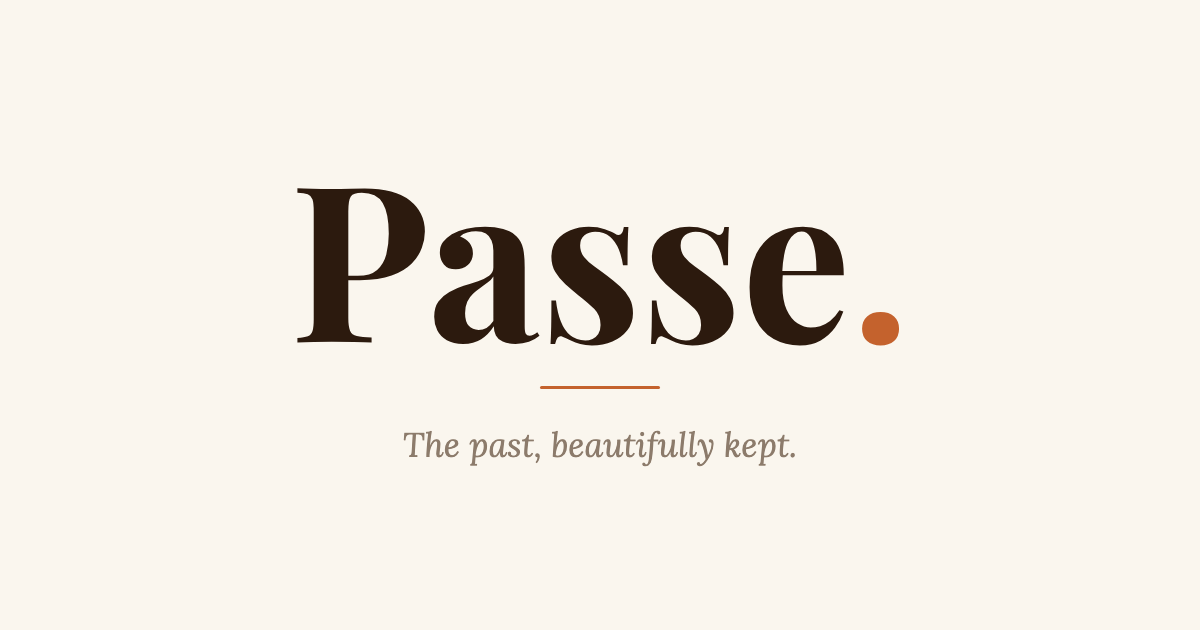
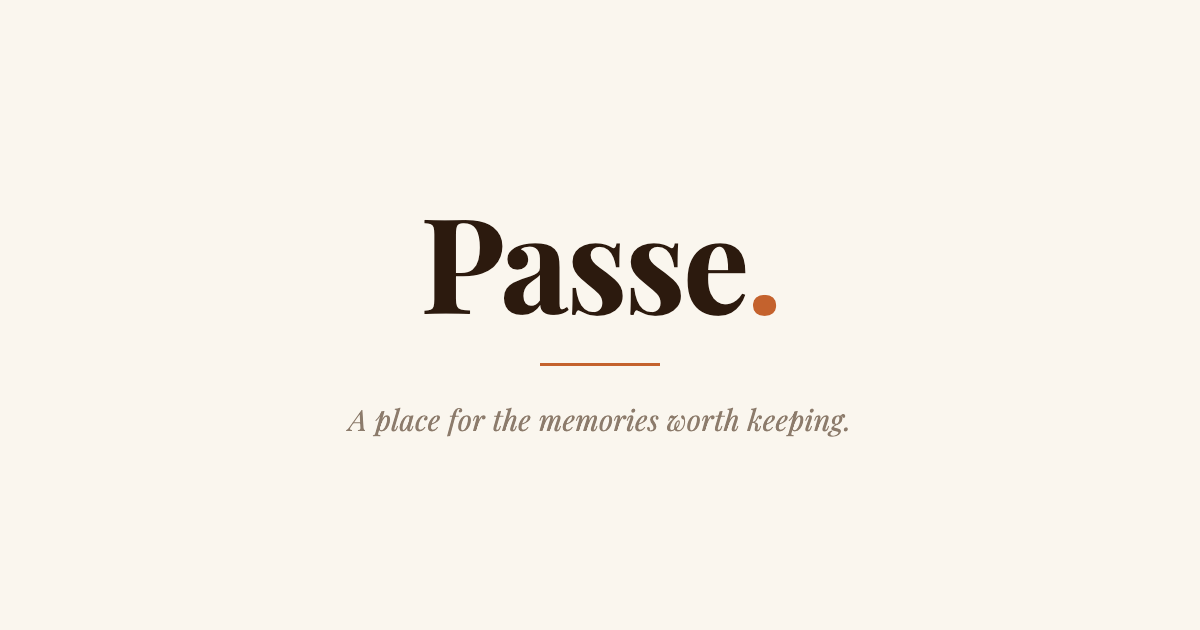
chore: revised app tagline to new one

Changed region(s): [[0.2467, 0.3016, 0.7708, 0.573], [0.2775, 0.6333, 0.7092, 0.7238], [0.4625, 0.573, 0.555, 0.6333]]

diff --git a/apps/web/e2e/public.spec.ts b/apps/web/e2e/public.spec.ts
@@ -4,7 +4,7 @@ test.describe('landing page', () => {
   test('renders hero, features, and pricing sections', async ({ page }) => {
     await page.goto('/en')
 
-    await expect(page.getByRole('heading', { name: /The past,/ })).toBeVisible()
+    await expect(page.getByRole('heading', { name: /A place for the memories/ })).toBeVisible()
     // "Start for free" appears in the hero, the pricing card, and the final CTA — any one of
     // them proves the page rendered.
     await expect(page.getByRole('link', { name: 'Start for free' }).first()).toBeVisible()

diff --git a/apps/web/src/lib/pdf/zine/ZinePanels.tsx b/apps/web/src/lib/pdf/zine/ZinePanels.tsx
@@ -170,7 +170,7 @@ export function ZineBackCoverPanel({ title, copyrightYear }: BackCoverPanelProps
       <View style={styles.backCoverMain}>
         <Text style={styles.backCoverTitle}>{title}</Text>
         <View style={styles.divider} />
-        <Text style={styles.tagline}>The past, beautifully kept.</Text>
+        <Text style={styles.tagline}>A place for the memories worth keeping.</Text>
       </View>
       <View style={styles.copyrightStrip}>
         <Text style={styles.copyrightText}>© {copyrightYear}</Text>

diff --git a/apps/web/src/features/trips/views/MemoryDetailView.tsx b/apps/web/src/features/trips/views/MemoryDetailView.tsx
@@ -58,7 +58,7 @@ export function MemoryDetailView({ tripId, memoryId }: Props) {
 
   return (
     <div className="grid min-h-[calc(100svh-4rem)] grid-cols-1 lg:grid-cols-[1.35fr_1fr]">
-      <div className="washed relative min-h-[420px] bg-dark-espresso-dark p-9">
+      <div className="washed relative min-h-[420px] bg-dark-espresso-dark p-5">
         {cover && (
           <div className="relative h-full w-full overflow-hidden rounded-[26px]">
             <Image

diff --git a/apps/web/app/layout.tsx b/apps/web/app/layout.tsx
@@ -22,7 +22,7 @@ const dmMono = DM_Mono({
 
 export const metadata: Metadata = {
   title: 'Passe.',
-  description: 'The past, beautifully kept.',
+  description: 'A place for the memories worth keeping.',
 }
 
 export default async function RootLayout({ children }: { children: ReactNode }) {

diff --git a/PRODUCT.md b/PRODUCT.md
@@ -1,6 +1,6 @@
 # Passe. — Product Identity
 
-> _The past, beautifully kept._
+> _A place for the memories worth keeping._
 
 A personal travel portfolio app for individual travellers. Users create **trips**, attach **memories** (photos, notes, GPS locations), and optionally share trips and memories publicly via a personal portfolio URL.
 
@@ -26,7 +26,7 @@ Every public-facing page should feel like a beautifully designed travel book, no
 
 **Name:** Passe. (always with the closing period, never the accented "Passé" or "PASSÉ")
 **Pronunciation:** pah-SAY
-**Tagline:** The past, beautifully kept.
+**Tagline:** A place for the memories worth keeping.
 
 ### Voice & tone
 

diff --git a/CLAUDE.md b/CLAUDE.md
@@ -1,6 +1,6 @@
 # Passe — AI Agent Context
 
-> "The past, beautifully kept." — A travel memory sharing platform.
+> "A place for the memories worth keeping." — A travel memory sharing platform.
 
 Users create **trips** (with dates, countries, cover images), attach geotagged **memories** (photos + notes) to them, and optionally share **public portfolios** and **individual trip pages**. Subscription plans (free / explorer / collector) gate features.
 

diff --git a/README.md b/README.md
@@ -1,6 +1,6 @@
 # Passe.
 
-> _The past, beautifully kept._
+> _A place for the memories worth keeping._
 
 A personal travel portfolio app. Users create **trips**, attach **memories** (photos, notes, GPS
 locations), and optionally share trips and memories publicly via a personal portfolio URL.
